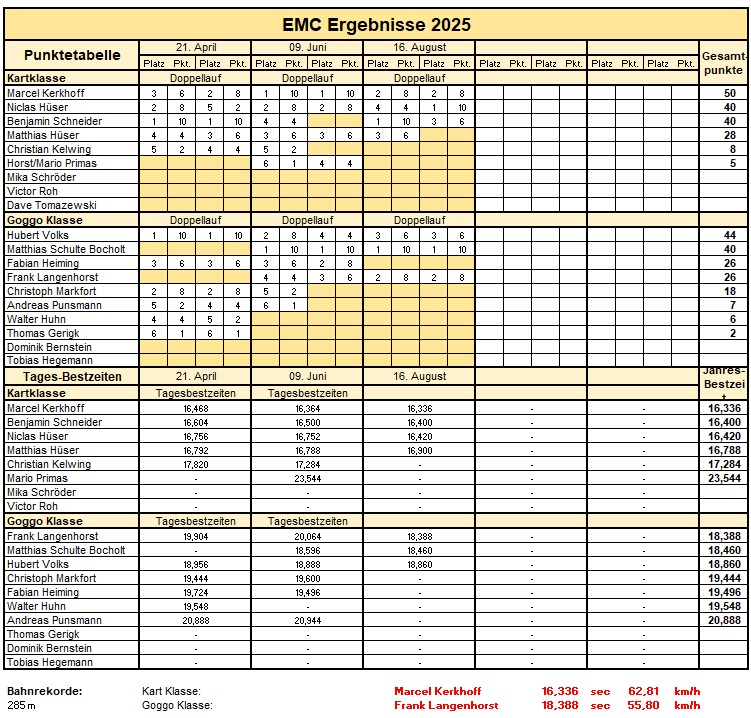
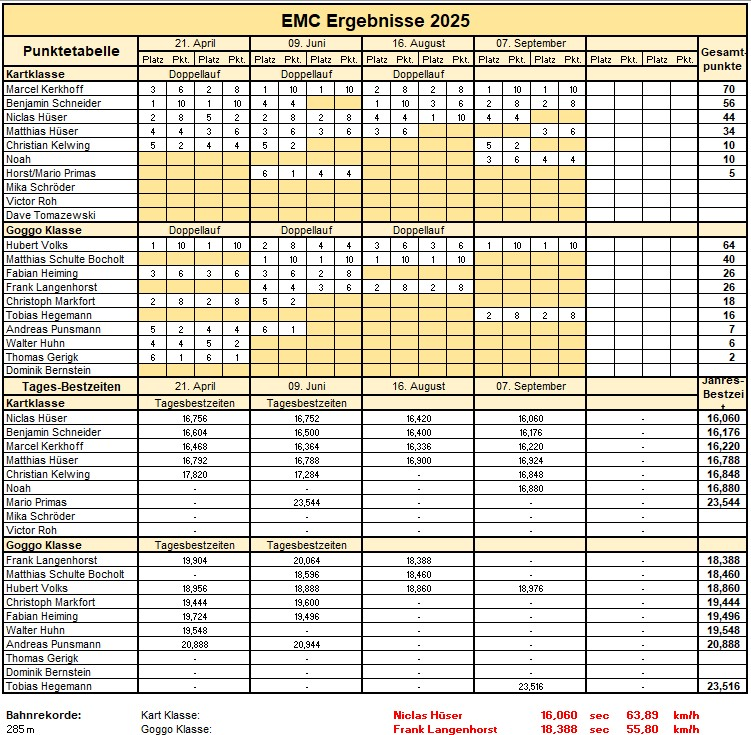
9.25

diff --git a/index.html b/index.html
@@ -7,6 +7,52 @@ description: Kartsport mit "Goggo"-Karts und konventionellen Karts
 <!-------------------------------------------------------------------------->
 <h2 align="center">Das Jahr 2025</h2>
 
+<h3 align="center">4. Lauf um den Jahrespokal des EMC am 07. September 2025</h3>
+<p align="justify">
+  Der 4. Lauf um den EMC-Jahrespokal fand bei hochsommerlichen Temperaturen 
+  statt. In der Goggo-Klasse gingennur 3 Fahrzeuge an den Start, die Kartfahrer
+  waren mit 5 Fahrzeugen vertreten.
+</p>
+
+<p align="justify">
+  In der Goggo-Klasse waren die Ergebnisse vom Training bis zum 2. Lauf
+  identisch, Hubert Volks belegte in allen Läufen den 1. Platz, auf dem
+  2. Platz folgte Tobias Hegemann. Hubert Volks ist damit der Jahresieg 
+  nicht mehr zu nehmen.
+  
+</p>
+<p align="justify">
+  In der Kartklasse erlebten wir wiederspannende Kämpfe um die ersten Plätze.
+  In beiden Läufen sieget Marcel Kerkhoff, gefolgt von Benjamin Schneider.
+  Den 3. Platz belegte Matthias Hüser, Noah als neuer Fahrer landete auf dem
+  4. Platz.
+  
+</p>
+
+<figure class="gesamt">           <!-- 2 Bilder nebeneinander anordnen -->
+      <figure class="einzel2">    <!-- Originalgröße 1630 x 1400 einstellen -->
+           <img src="img/rennen/2025.09.07_goggo.jpg" alt="Sieger Goggo" />
+           <figcaption>Tagessieger Goggo</figcaption>
+      </figure>
+      <figure class="einzel2">
+           <img src="img/rennen/2025.09.07_kart.jpg" alt="Sieger Kart" />
+           <figcaption>Tagessieger Kart</figcaption>
+      </figure>
+</figure>
+<div class="textspalten2">       <!-- Bildunterschrift in 2 Spalten anordnen -->
+   <ul>
+    	<li>1. Hubert Volks</li>
+   		<li>2. Tobias Hegemann
+      <li>3. - </li>
+   		<li>4. - </li>
+      <li>1. Marcel Kerkhoff</li>
+      <li>2. Benjamin Schneider</li>
+      <li>3. Matthias Hüser</li>
+      <li>4. Noah</li>
+      <li></li>
+   </ul>
+</div>
+
 <h3 align="center">3. Lauf um den Jahrespokal des EMC am 16. August 2025</h3>
 <p align="justify">
   Der 3. Lauf um den EMC-Jahrespokal fand an einem Samstag mit anschließendem
@@ -31,8 +77,6 @@ description: Kartsport mit "Goggo"-Karts und konventionellen Karts
   Hüser den Sieg überlassen. Auf den weiteren Plätzen folgten Benjamin Schneider
   und Matthias Hüser.
 </p>
-  
-
 
 <figure class="gesamt">           <!-- 2 Bilder nebeneinander anordnen -->
       <figure class="einzel2">    <!-- Originalgröße 1630 x 1400 einstellen -->
@@ -57,6 +101,7 @@ description: Kartsport mit "Goggo"-Karts und konventionellen Karts
       <li></li>
    </ul>
 </div>
+
 <h3 align="center">2. Lauf um den Jahrespokal des EMC am 9. Juni 2025</h3>
 <p align="justify">
   Der 2. Lauf um den EMC Jahrespokal fand am Pfingstmontag statt. Der Wetter
